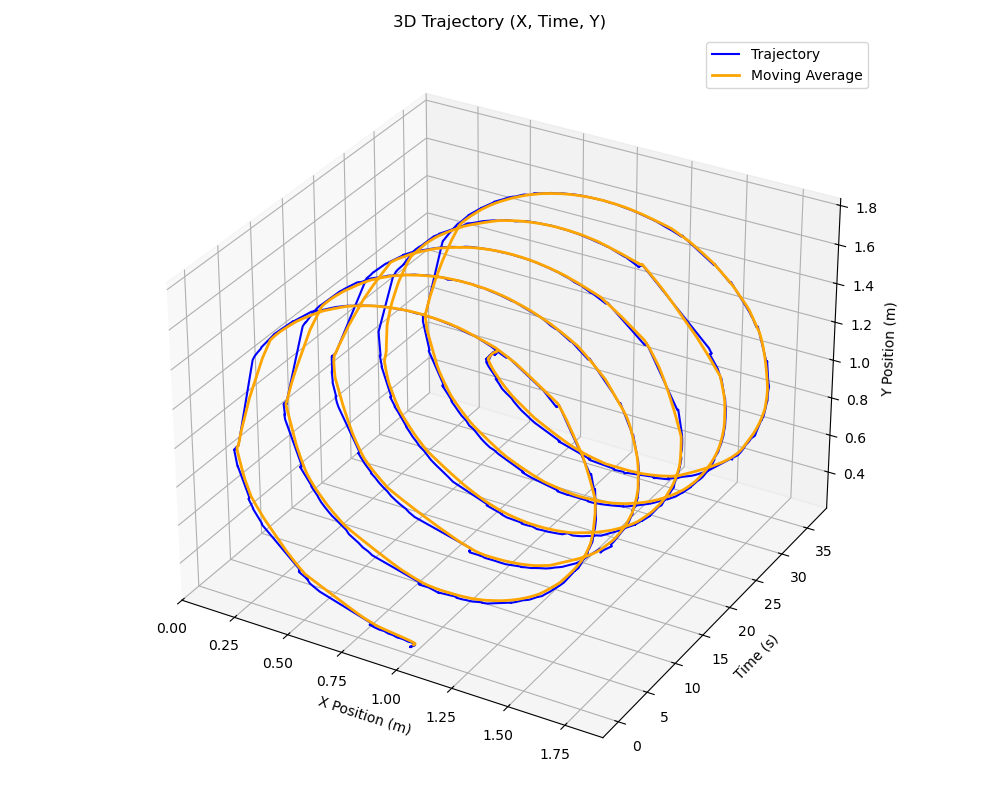
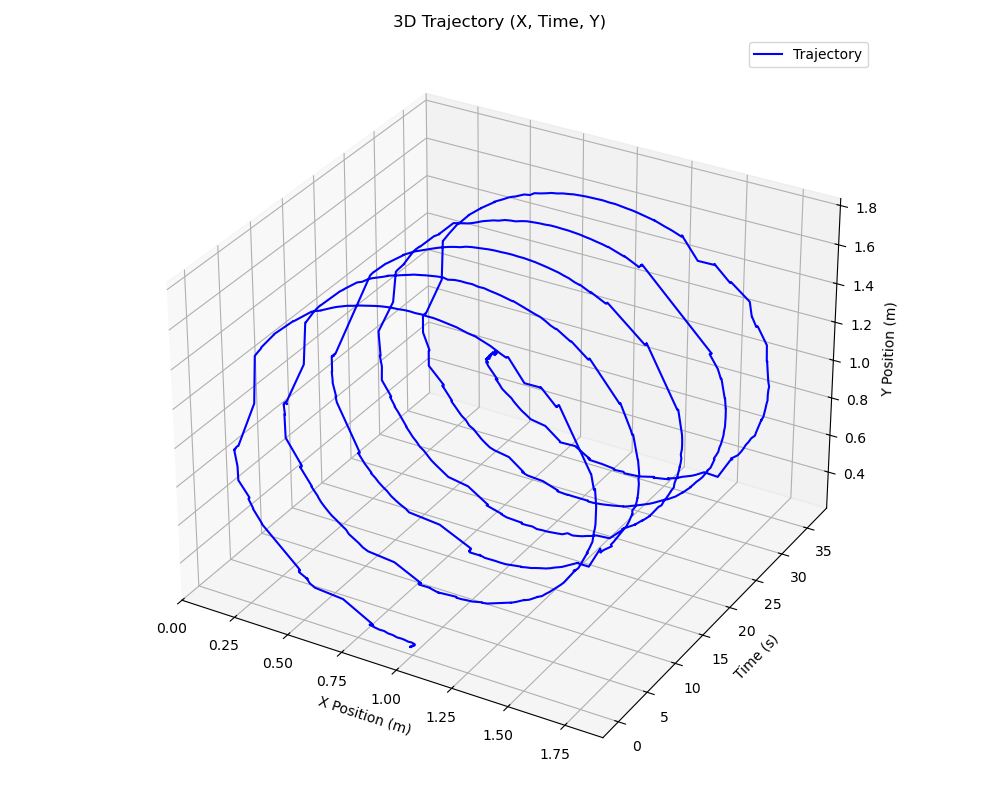
3d plots added

diff --git a/Python/vision/3dplot_position.py b/Python/vision/3dplot_position.py
@@ -1,0 +1,74 @@
+import matplotlib.pyplot as plt
+import pandas as pd
+import os
+from mpl_toolkits.mplot3d import Axes3D
+
+def plot_marker_data(csv_path, output_plot_path):
+    try:
+        print(f"Processing file: {csv_path}")
+        df = pd.read_csv(csv_path)
+
+        print(f"Columns found: {df.columns.tolist()}")
+
+        # Check required columns
+        required_columns = ["fps", "Frame", "X Position (m)", "Y Position (m)"]
+        for col in required_columns:
+            if col not in df.columns:
+                raise ValueError(f"Missing column: {col}")
+
+        # Safely extract FPS
+        fps_value = df["fps"].iloc[0]
+        if pd.isna(fps_value):
+            raise ValueError("Invalid 'fps' value (NaN)")
+
+        # Extract values
+        fps = float(fps_value)
+        frames = df["Frame"]
+        x_positions = df["X Position (m)"]
+        y_positions = df["Y Position (m)"]
+        seconds = frames * (1 / fps)
+
+        # Plot
+        fig = plt.figure(figsize=(10, 8))
+        ax = fig.add_subplot(111, projection='3d')
+
+        ax.plot(x_positions, seconds, y_positions, label='Trajectory', color='blue', linewidth=1.5)
+
+        ax.set_xlabel('X Position (m)')
+        ax.set_ylabel('Time (s)')
+        ax.set_zlabel('Y Position (m)')
+        ax.set_title('3D Trajectory (X, Time, Y)')
+        ax.legend()
+        ax.grid(True)
+
+        plt.tight_layout()
+        plt.savefig(output_plot_path)
+        plt.close()
+
+        print(f"Saved plot to: {output_plot_path}")
+
+    except Exception as e:
+        print(f"Error processing {csv_path}: {e}")
+
+if __name__ == "__main__":
+    base_dir = os.path.dirname(__file__)
+    input_folder = os.path.join(base_dir, 'output_files_repaired')
+    output_folder = os.path.join(base_dir, 'output_plots')
+
+    print("Script is running.")
+    print(f"Looking in folder: {input_folder}")
+    
+    if not os.path.exists(input_folder):
+        print(f"Input folder does not exist: {input_folder}")
+    else:
+        os.makedirs(output_folder, exist_ok=True)
+
+        files = os.listdir(input_folder)
+        print(f"Found {len(files)} files.")
+
+        for file_name in files:
+            print(f"Found file: {file_name}")
+            if file_name.endswith('.csv'):
+                csv_file = os.path.join(input_folder, file_name)
+                plot_output = os.path.join(output_folder, file_name.replace('.csv', '_3d.png'))
+                plot_marker_data(csv_file, plot_output)
